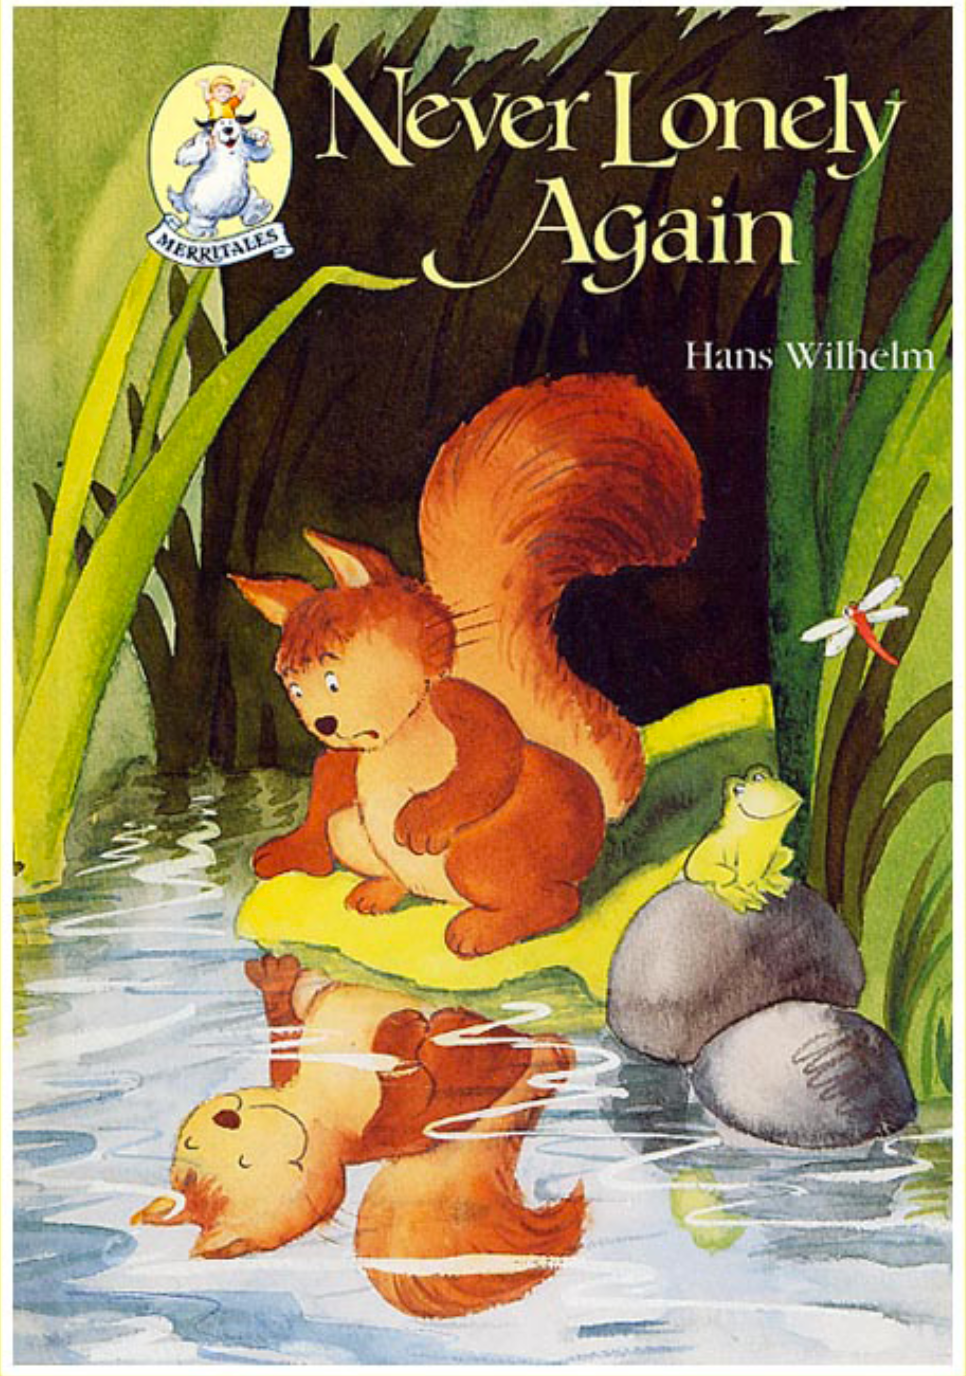
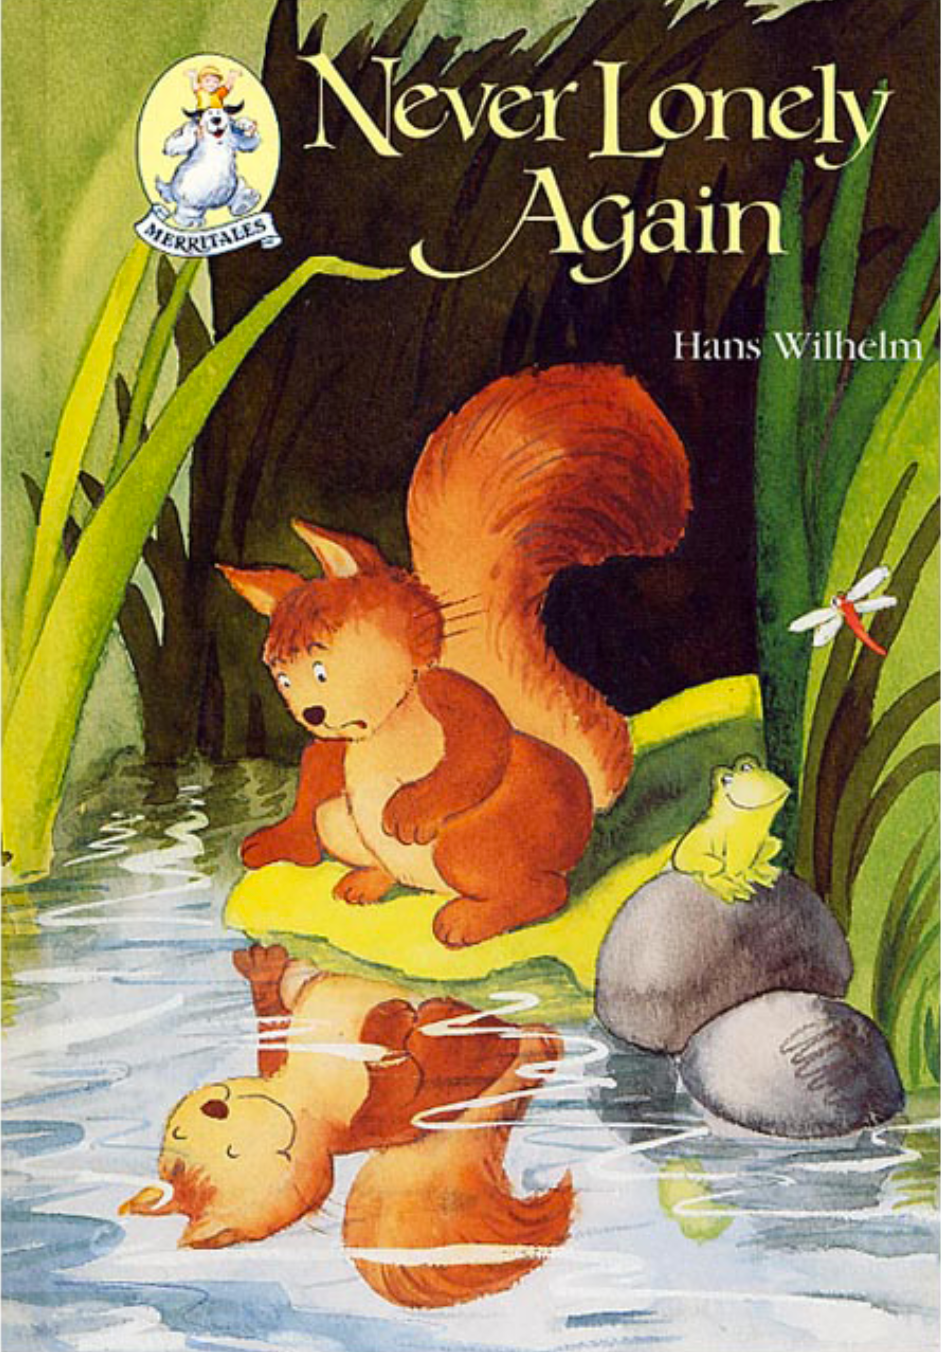
added mo library category pages

diff --git a/library-book-2.html b/library-book-2.html
@@ -1,0 +1,116 @@
+<!DOCTYPE html>
+<html lang="en">
+
+  <head>
+    <meta charset="utf-8">
+    <meta name="viewport" content="width=device-width, initial-scale=1.0">
+    <title>library-book</title>
+    <link rel="stylesheet" href="assets/css/tent.css">
+    <!-- tent css and grid  -->
+    <link rel="stylesheet" href="assets/css/blog.css">
+    <!-- blog css -->
+    <link rel="stylesheet" href="assets/css/about.css">
+    <link rel="stylesheet" href="assets/css/library.css">
+
+    <!-- about css -->
+  </head>
+
+  <body>
+    <header class="flex gutter sides">
+      <span class="logo">
+        <a href="index.html">
+          <img src="assets/branding/logo-ver-1.png" alt="UWR logo">
+        </a>
+      </span>
+      <nav>
+        <ul class="flex">
+          <li><a class="yellow" href="index.html">• Library •</a></li>
+          <li><a href="blog.html">Blog</a></li>
+          <li><a href="event.html">Event</a></li>
+          <li><a href="about.html">About</a></li>
+        </ul>
+      </nav>
+    </header>
+    <main class='container--fluid'>
+      <div class="recent-post card green-background">
+        <div class="header double-space padding-top">
+          <div class="cover-art gutter sides">
+            <div class="flex column single-space">
+              <h3 class="white">3 to 4</h3>
+              <h4 class="white">years old</h4>
+            </div>
+            <div class="book-cover">
+              <img src="assets/img/book-covers/never-lonely-again.png" alt="book cover">
+            </div>
+
+          </div>
+          <div class="book-body column">
+            <!-- <img class="large gutter-left" src="assets/img/icons/pink-left.svg" alt="">
+            <img class="small gutter-left" src="assets/img/icons/blue-up.svg" alt=""> -->
+            <div class="link">
+              <div class="buttons single-space">
+                <a href="http://www.childrensbooksforever.com/Childrenpics/NEVER%20LONELY%20AGAIN.pdf"><h6 class="pink yellow-background single-space">Read it</h6></a>
+                <a href="http://www.dscl.org/kids/nest-activity-resources/helenkeller.pdf"><h4 class="yellow-background pink gutter sides">Activity</h4></a>
+              </div>
+              <div class="flex post-tag double-space gutter sides">
+                <div class="grid__column--1 single-cell small">
+                  <div class="underline yellow"></div>
+                </div>
+                <h4 class=" grid__column--3 purple">by Vintage Barrie</h4>
+                <span class="grid__column--1"></span>
+              </div>
+              <div class="card-body">
+                <!-- <img src="" alt=""> -->
+                <p class="white gutter sides quadruple-space">Wendy, Michael and John are sleeping when the window of their nursery blows open and lets in a boy, Peter Pan, and his fairy, Tinker Bell. Peter soon entices the three children from their beds and out through the window to Neverland. There,
+                  they encounter mermaids, fairies, the Lost Boys, the Indian princess Tiger Lilly and her tribe, and do battle with a villainous gang of pirates and their leader, the sinister Captain Hook, in a magical adventure which has enchanted generations
+                  of children and adults.</p>
+                <!-- <img src="assets/img/icons/flurish-mid-green.png" alt=""> -->
+              </div>
+            </div>
+          </div>
+        </div>
+      </div>
+    </main>
+    <footer>
+
+    </footer>
+    <!-- Scripts -->
+    <!-- /*  livereload  */ -->
+    <script>
+      console.log('hello');
+
+      function myFunction() {
+        document.getElementById("demo").style.color = "red";
+      }
+
+      function viewAll() {
+        var books = document.getElementById("books");
+        books.classList.toggle('view-all-item');
+
+        var view = document.getElementById("view_all");
+
+        if (view.innerHTML == 'View all') {
+          this.innerHTML = 'hide';
+        } else if (view == 'hide') {
+          document.getElementById("view_all").innerHTML = 'he'
+        };
+      };
+
+      document.write('<script src="http://' + (location.host || 'localhost').split(':')[0] + ':35729/livereload.js?snipver=1"></' + 'script>')
+    </script>
+
+    <!-- /*  livereload  */ -->
+    <!-- <script>
+
+    // function viewAll() {
+    //   var book = document.getElementById("books")
+    //   book NAME.className="mynewclass"
+    //   }
+    //   $('.view-all').click(viewAll() {
+    //     $(this).removeClass('myclass');
+    //     $(this).addClass('showhidenew');
+    //   });
+    </script> -->
+  </body>
+
+</html>

diff --git a/library-book-3.html b/library-book-3.html
@@ -1,0 +1,116 @@
+<!DOCTYPE html>
+<html lang="en">
+
+  <head>
+    <meta charset="utf-8">
+    <meta name="viewport" content="width=device-width, initial-scale=1.0">
+    <title>library-book</title>
+    <link rel="stylesheet" href="assets/css/tent.css">
+    <!-- tent css and grid  -->
+    <link rel="stylesheet" href="assets/css/blog.css">
+    <!-- blog css -->
+    <link rel="stylesheet" href="assets/css/about.css">
+    <link rel="stylesheet" href="assets/css/library.css">
+
+    <!-- about css -->
+  </head>
+
+  <body>
+    <header class="flex gutter sides">
+      <span class="logo">
+        <a href="index.html">
+          <img src="assets/branding/logo-ver-1.png" alt="UWR logo">
+        </a>
+      </span>
+      <nav>
+        <ul class="flex">
+          <li><a class="yellow" href="index.html">• Library •</a></li>
+          <li><a href="blog.html">Blog</a></li>
+          <li><a href="event.html">Event</a></li>
+          <li><a href="about.html">About</a></li>
+        </ul>
+      </nav>
+    </header>
+    <main class='container--fluid'>
+      <div class="recent-post card yellow-background">
+        <div class="header double-space padding-top">
+          <div class="cover-art gutter sides">
+            <div class="flex column single-space">
+              <h3 class="pink">5 to 6</h3>
+              <h4 class="pink">years old</h4>
+            </div>
+            <div class="book-cover">
+              <img src="assets/img/book-covers/never-lonely-again.png" alt="book cover">
+            </div>
+
+          </div>
+          <div class="book-body column">
+            <!-- <img class="large gutter-left" src="assets/img/icons/pink-left.svg" alt="">
+            <img class="small gutter-left" src="assets/img/icons/blue-up.svg" alt=""> -->
+            <div class="link">
+              <div class="buttons single-space">
+                <a href="http://www.childrensbooksforever.com/Childrenpics/NEVER%20LONELY%20AGAIN.pdf"><h6 class="yellow pink-background single-space">Read it</h6></a>
+                <a href="http://www.dscl.org/kids/nest-activity-resources/helenkeller.pdf"><h4 class="pink-background yellow gutter sides">Activity</h4></a>
+              </div>
+              <div class="flex post-tag double-space gutter sides">
+                <div class="grid__column--1 single-cell small">
+                  <div class="underline pink"></div>
+                </div>
+                <h4 class=" grid__column--3 purple">by Vintage Barrie</h4>
+                <span class="grid__column--1"></span>
+              </div>
+              <div class="card-body">
+                <!-- <img src="" alt=""> -->
+                <p class="black gutter sides quadruple-space">Wendy, Michael and John are sleeping when the window of their nursery blows open and lets in a boy, Peter Pan, and his fairy, Tinker Bell. Peter soon entices the three children from their beds and out through the window to Neverland. There,
+                  they encounter mermaids, fairies, the Lost Boys, the Indian princess Tiger Lilly and her tribe, and do battle with a villainous gang of pirates and their leader, the sinister Captain Hook, in a magical adventure which has enchanted generations
+                  of children and adults.</p>
+                <!-- <img src="assets/img/icons/flurish-mid-green.png" alt=""> -->
+              </div>
+            </div>
+          </div>
+        </div>
+      </div>
+    </main>
+    <footer>
+
+    </footer>
+    <!-- Scripts -->
+    <!-- /*  livereload  */ -->
+    <script>
+      console.log('hello');
+
+      function myFunction() {
+        document.getElementById("demo").style.color = "red";
+      }
+
+      function viewAll() {
+        var books = document.getElementById("books");
+        books.classList.toggle('view-all-item');
+
+        var view = document.getElementById("view_all");
+
+        if (view.innerHTML == 'View all') {
+          this.innerHTML = 'hide';
+        } else if (view == 'hide') {
+          document.getElementById("view_all").innerHTML = 'he'
+        };
+      };
+
+      document.write('<script src="http://' + (location.host || 'localhost').split(':')[0] + ':35729/livereload.js?snipver=1"></' + 'script>')
+    </script>
+
+    <!-- /*  livereload  */ -->
+    <!-- <script>
+
+    // function viewAll() {
+    //   var book = document.getElementById("books")
+    //   book NAME.className="mynewclass"
+    //   }
+    //   $('.view-all').click(viewAll() {
+    //     $(this).removeClass('myclass');
+    //     $(this).addClass('showhidenew');
+    //   });
+    </script> -->
+  </body>
+
+</html>

diff --git a/index.html b/index.html
@@ -116,19 +116,19 @@
       </div>
 
       <!-- Category 3 to 4 -->
-      <div class="book-shelves pink-background ">
+      <div class="book-shelves green-background ">
         <div class="category row gutter sides vertical ends">
           <div class="flex column gutter">
-            <h3 class="pink">3 to 4 </h3>
-            <h4 class="pink">years old</h4>
+            <h3 class="white">3 to 4 </h3>
+            <h4 class="white">years old</h4>
           </div>
-          <a onclick="viewMore()" id="view_all"><h5 class="white purple-background">Expand</h5><img src="" alt=""></a>
+          <a onclick="viewMore()" id="view_all"><h5 class="white purple-background">Expand</h5></a>
         </div>
         <div class="slider">
           <div id="overFlowNone" class="item">
             <ul id="books-2" class="flex">
               <li>
-                <a href="#">
+                <a href="library-book-2.html">
                   <div class="cover-art">
                     <img src="assets/img/book-covers/hug-machine.jpg" alt="Hug Machine">
                   </div>

diff --git a/assets/css/library.css b/assets/css/library.css
@@ -185,10 +185,10 @@ a {
 background-size: 52rem;
 
 }
-.book-cover{
-
-      max-width: 93rem;
+.book-cover {
+    max-width: 37rem;
 }
+
 .recent-post.card.purple-background {
     align-items: center;
 }
